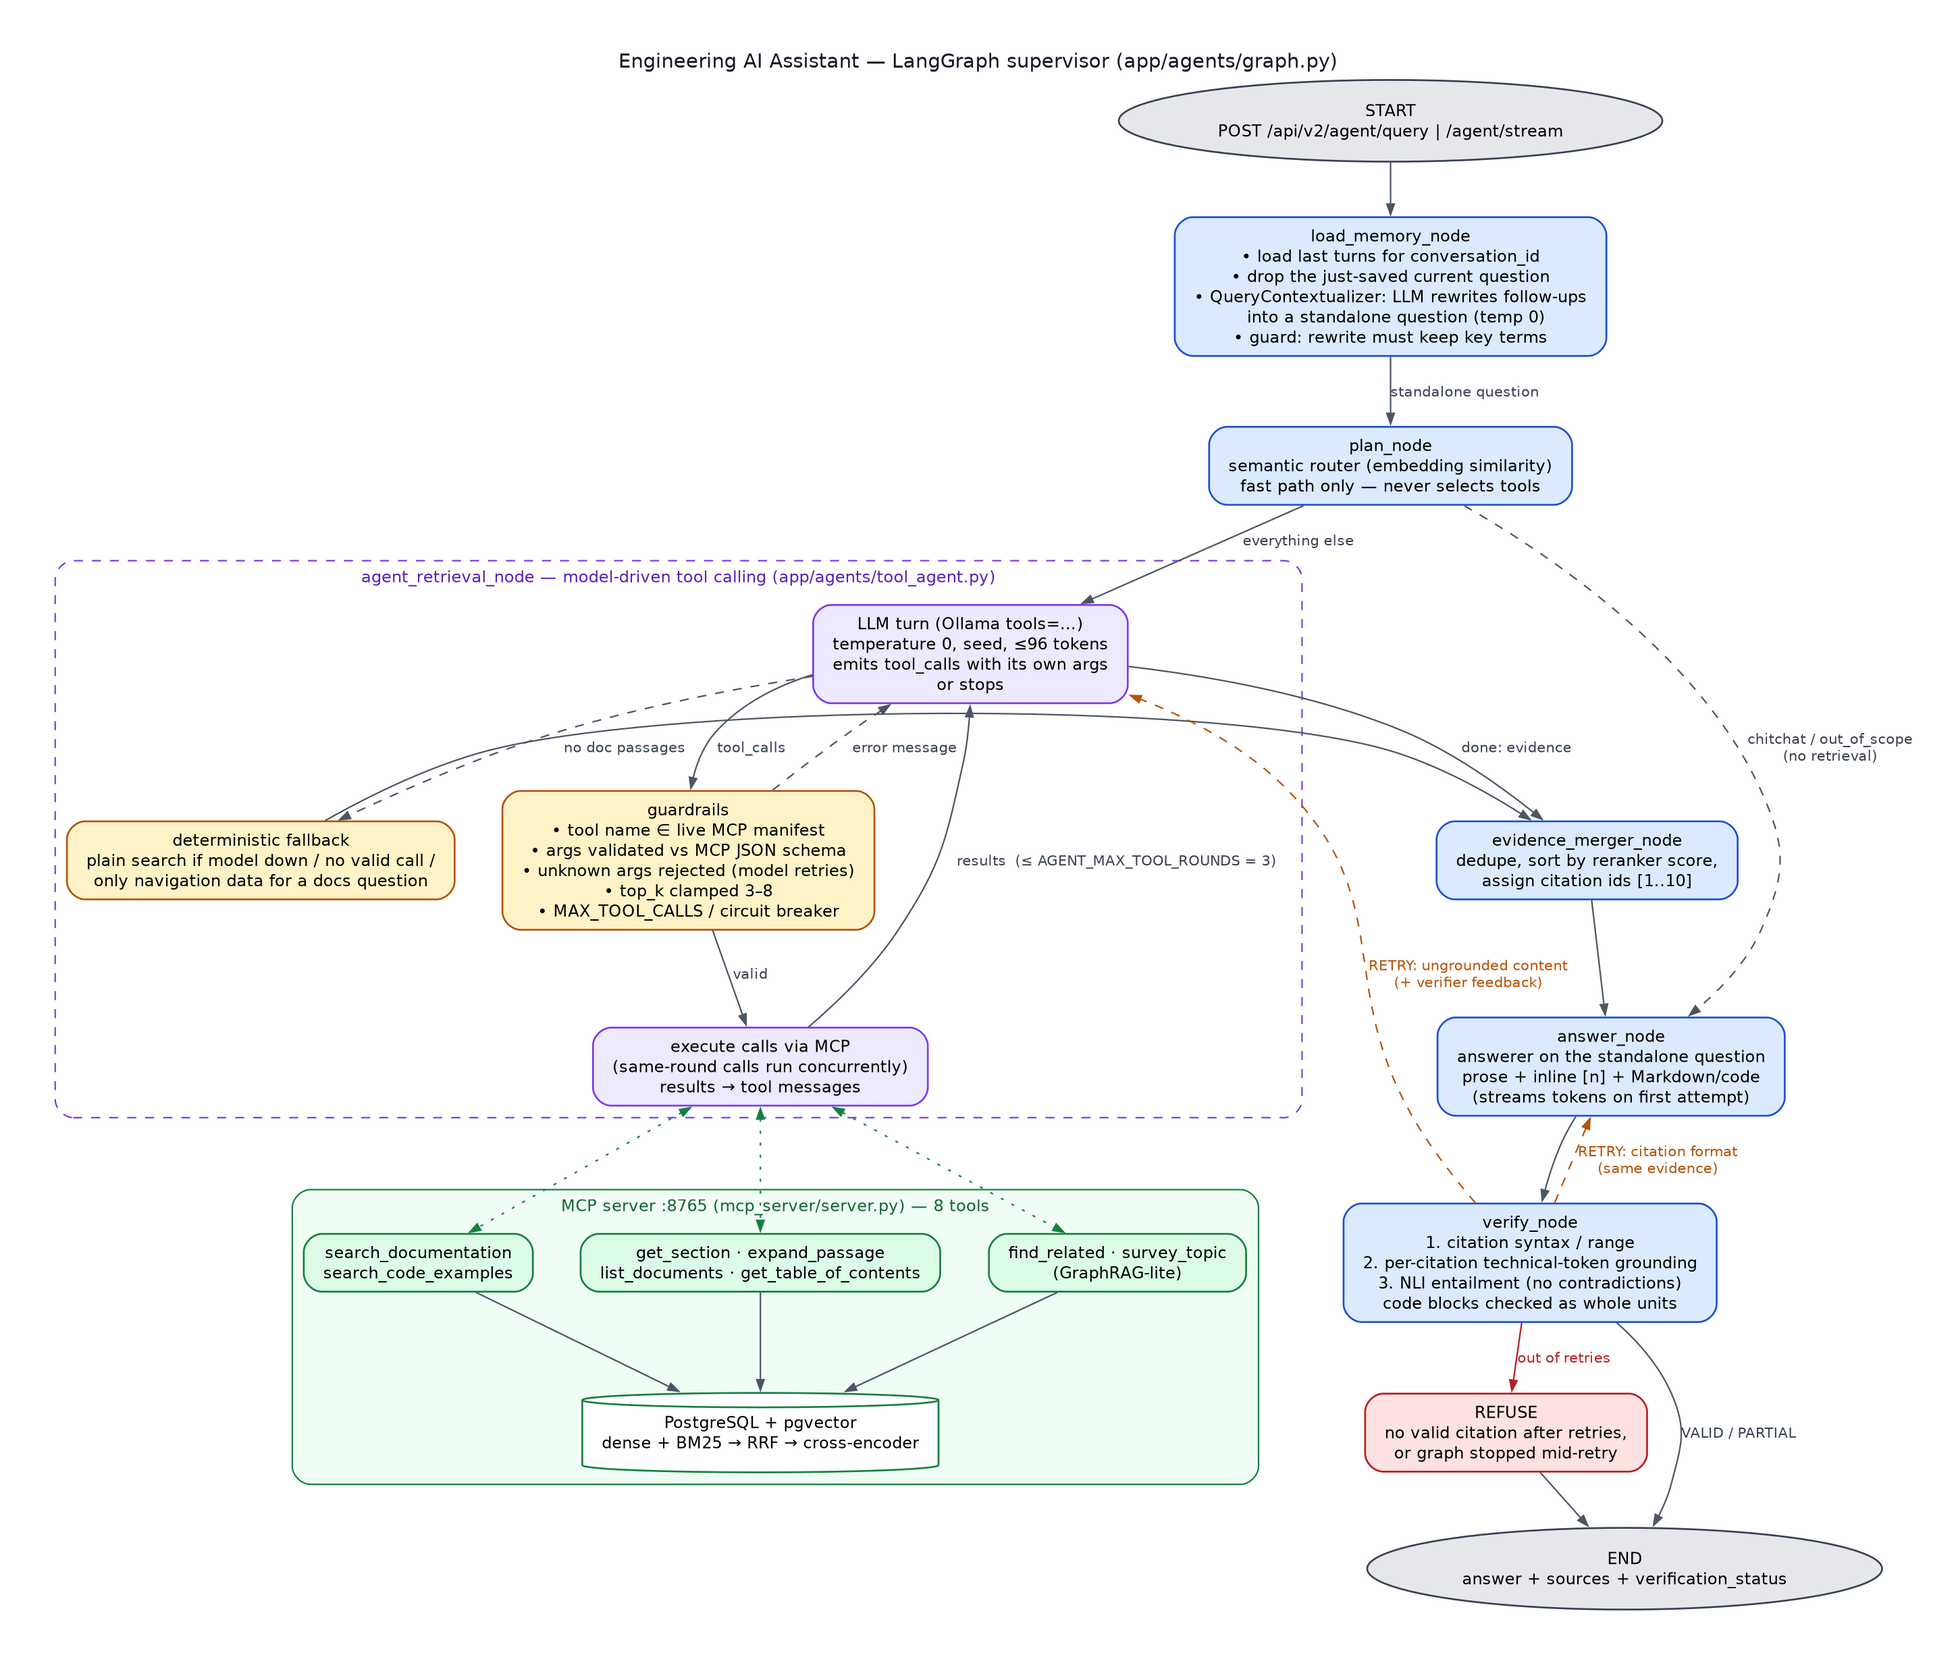
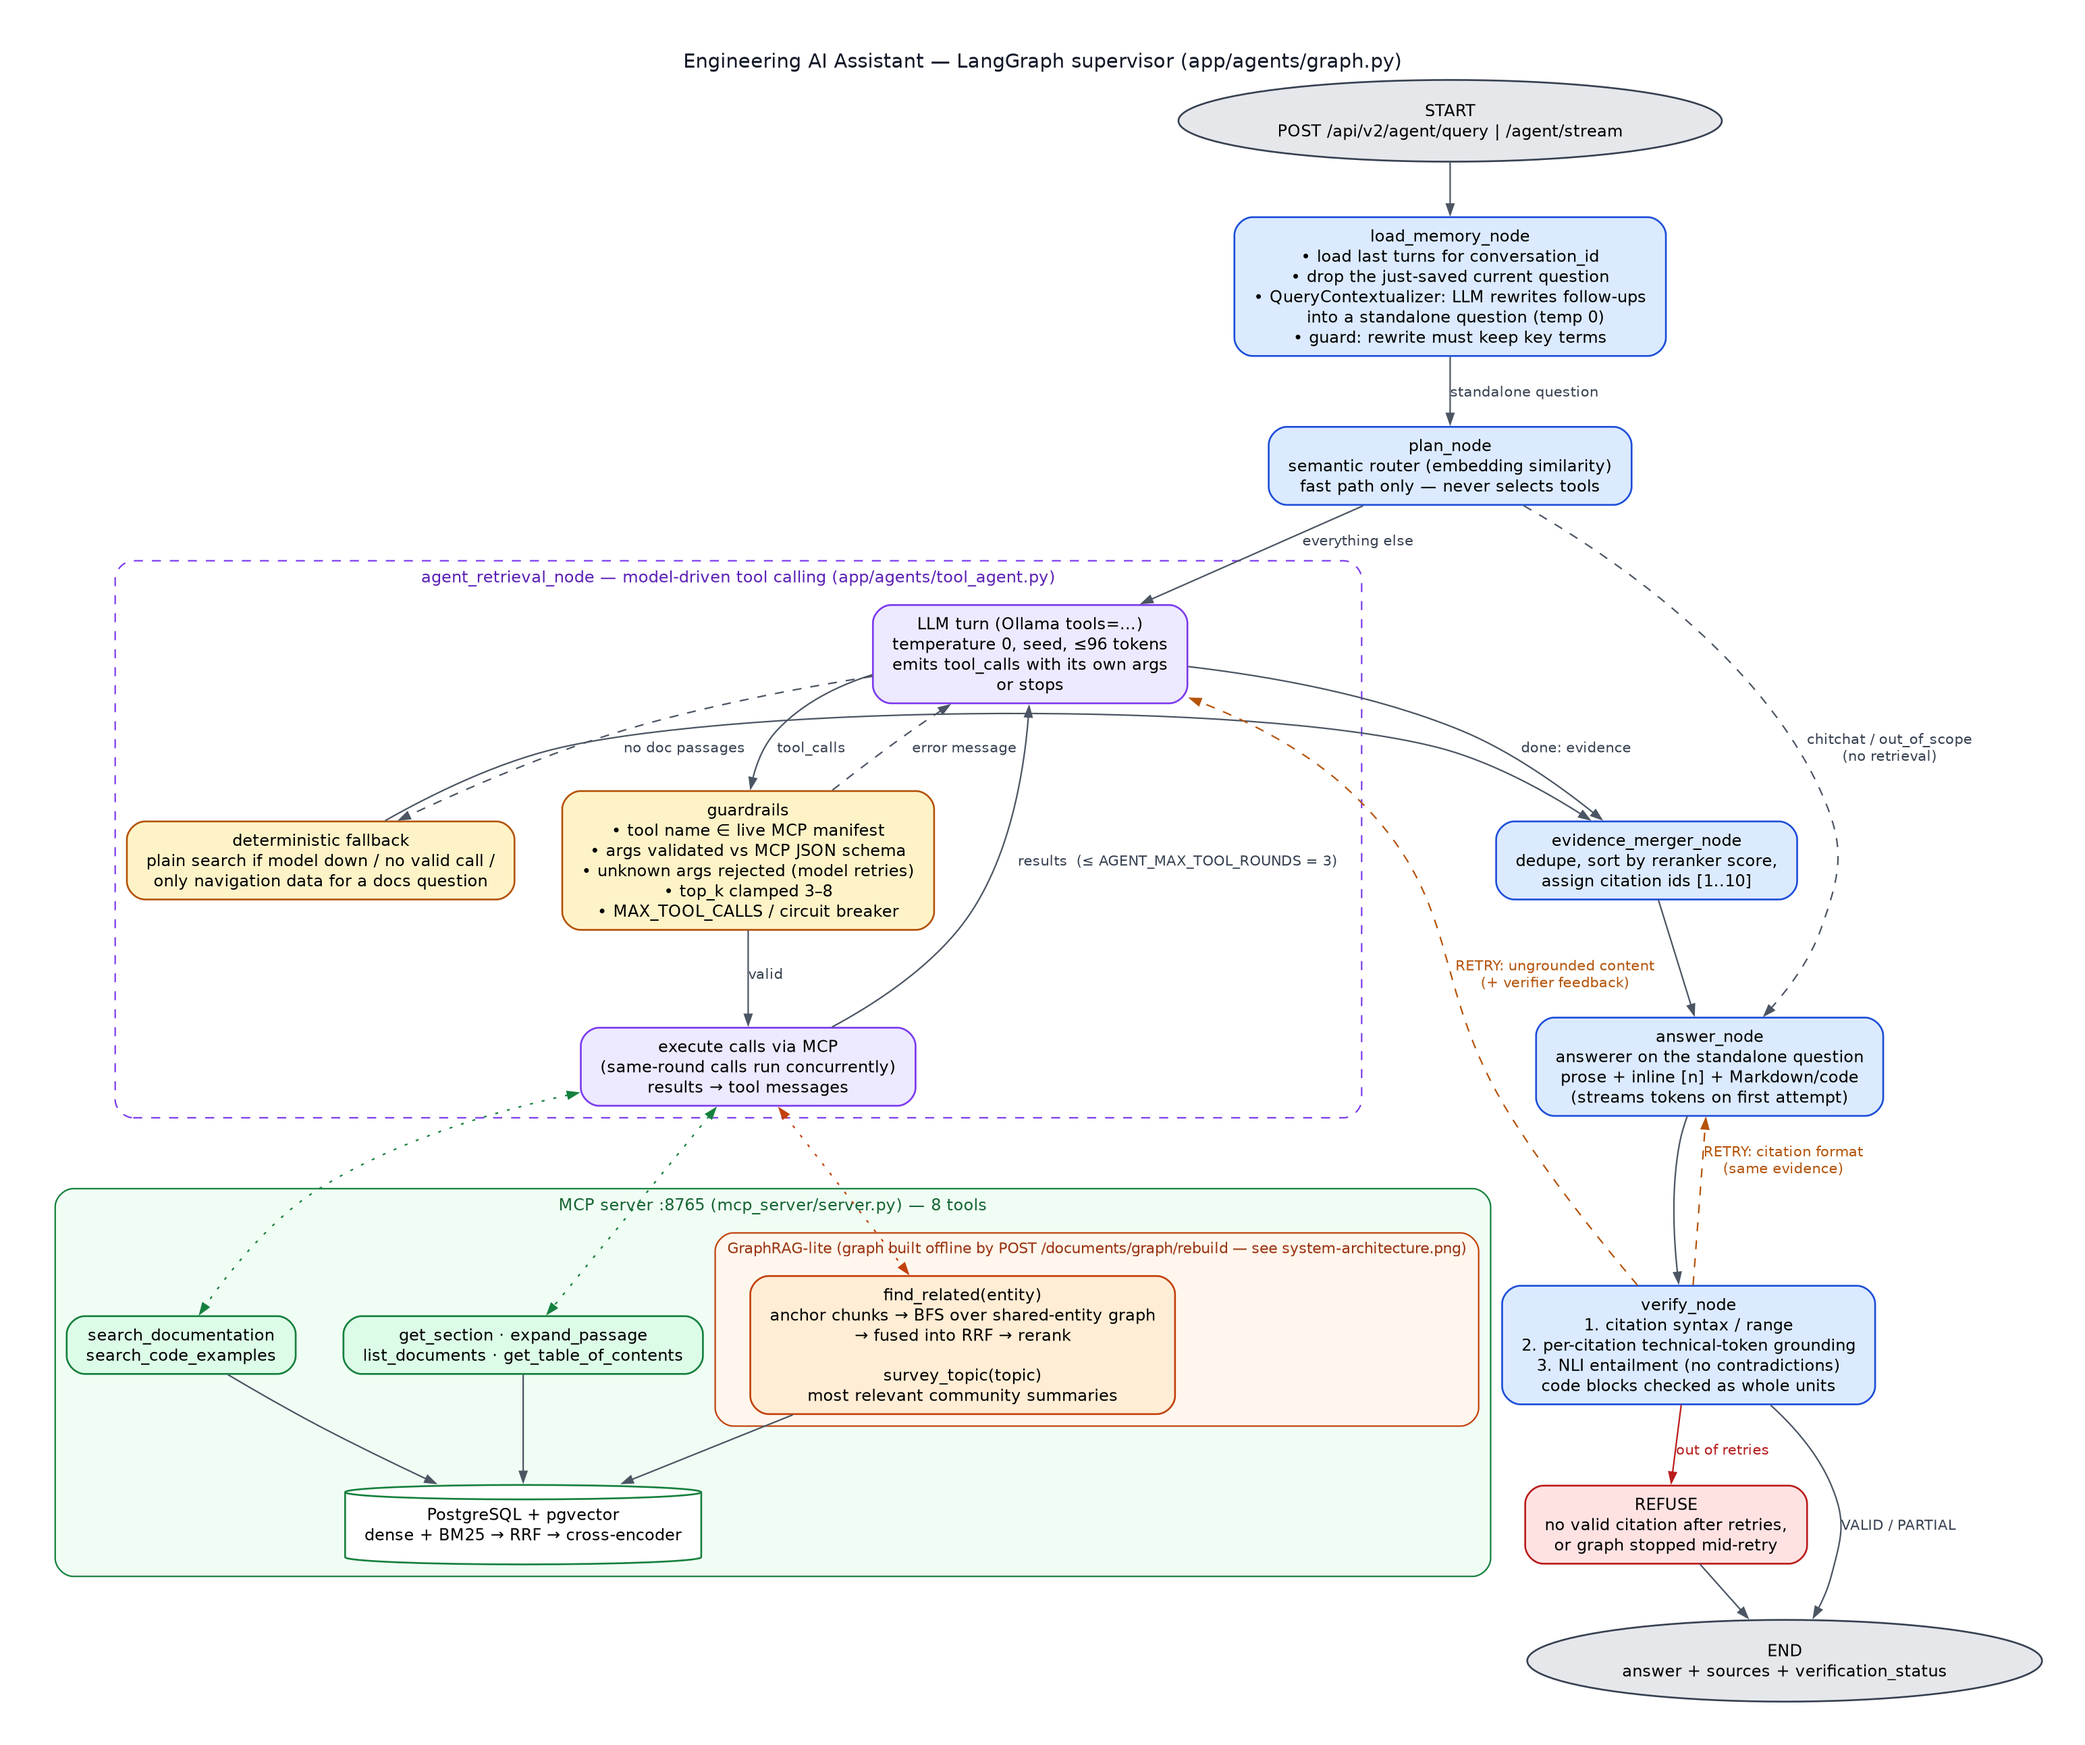
Add a system architecture diagram and mark GraphRAG in the agent graph
GraphRAG-lite has two halves and only one appears in the agent graph: the
query-time tools (find_related, survey_topic). Its indexing (entity extraction,
shared-entity chunk graph, Louvain communities, LLM community summaries) is a
separate corpus-wide batch behind POST /documents/graph/rebuild.

- docs/images/system-architecture.png (+ .dot): the docker-compose services
  (frontend :3000, api :8000, mcp-server :8765, postgres 5444->5432) and host
  Ollama :11434, the per-document ingestion pipeline, the GraphRAG-lite
  indexing pipeline, and how the two GraphRAG tools use what it stores. GraphRAG
  boxes are orange in both diagrams; the indexing box notes that it hasn't been
  run on the current corpus yet.
- agent-graph: find_related and survey_topic in their own GraphRAG-lite group.
- README: the system diagram and a short explanation of where GraphRAG fits.
- community_builder docstring: summaries are returned by survey_topic, not
  map-reduced by global search any more.

diff --git a/app/graph/community_builder.py b/app/graph/community_builder.py
@@ -36,8 +36,8 @@ def rebuild_knowledge_graph(db: Session) -> Dict[str, Any]:
        `Chunk.community_id`.
     4. Generates one summary per community (LLM-assisted, with a
        deterministic fallback when the LLM is unavailable) into
-       `CommunitySummary`, which `app.graph.global_search` later maps/reduces
-       over for "exhaustive" queries.
+       `CommunitySummary`, which the `survey_topic` MCP tool ranks and returns
+       (see app/graph/global_search.py).
     """
     import networkx as nx
     from networkx.algorithms.community import louvain_communities

diff --git a/README.md b/README.md
@@ -22,8 +22,18 @@ lexically and via NLI entailment — before triggering a bounded retry on an ung
 
 The agent graph above is rendered from [`docs/images/agent-graph.dot`](docs/images/agent-graph.dot)
 (`dot -Tpng -Gdpi=160 docs/images/agent-graph.dot -o docs/images/agent-graph.png`); its nodes
-and edges follow the compiled LangGraph in `app/agents/graph.py`. The diagram below shows the
-same flow end to end, from the browser to the database.
+and edges follow the compiled LangGraph in `app/agents/graph.py`.
+
+![System architecture: frontend, api, mcp-server and postgres services with host Ollama; the ingestion pipeline; GraphRAG-lite indexing and its two query-time tools](docs/images/system-architecture.png)
+
+The system view above ([`docs/images/system-architecture.dot`](docs/images/system-architecture.dot))
+places the agent graph among the docker-compose services, and shows the two pipelines that run
+outside it: per-document ingestion on upload, and GraphRAG-lite indexing (orange), a corpus-wide
+batch triggered by `POST /api/v2/documents/graph/rebuild` that extracts entities, links chunks by
+shared entities, detects Louvain communities and summarizes them. At query time GraphRAG is two
+MCP tools the agent can choose: `find_related` (graph traversal fused into hybrid search) and
+`survey_topic` (the most relevant community summaries). The Mermaid diagram below shows the
+request flow end to end, from the browser to the database.
 
 ```mermaid
 graph TD
